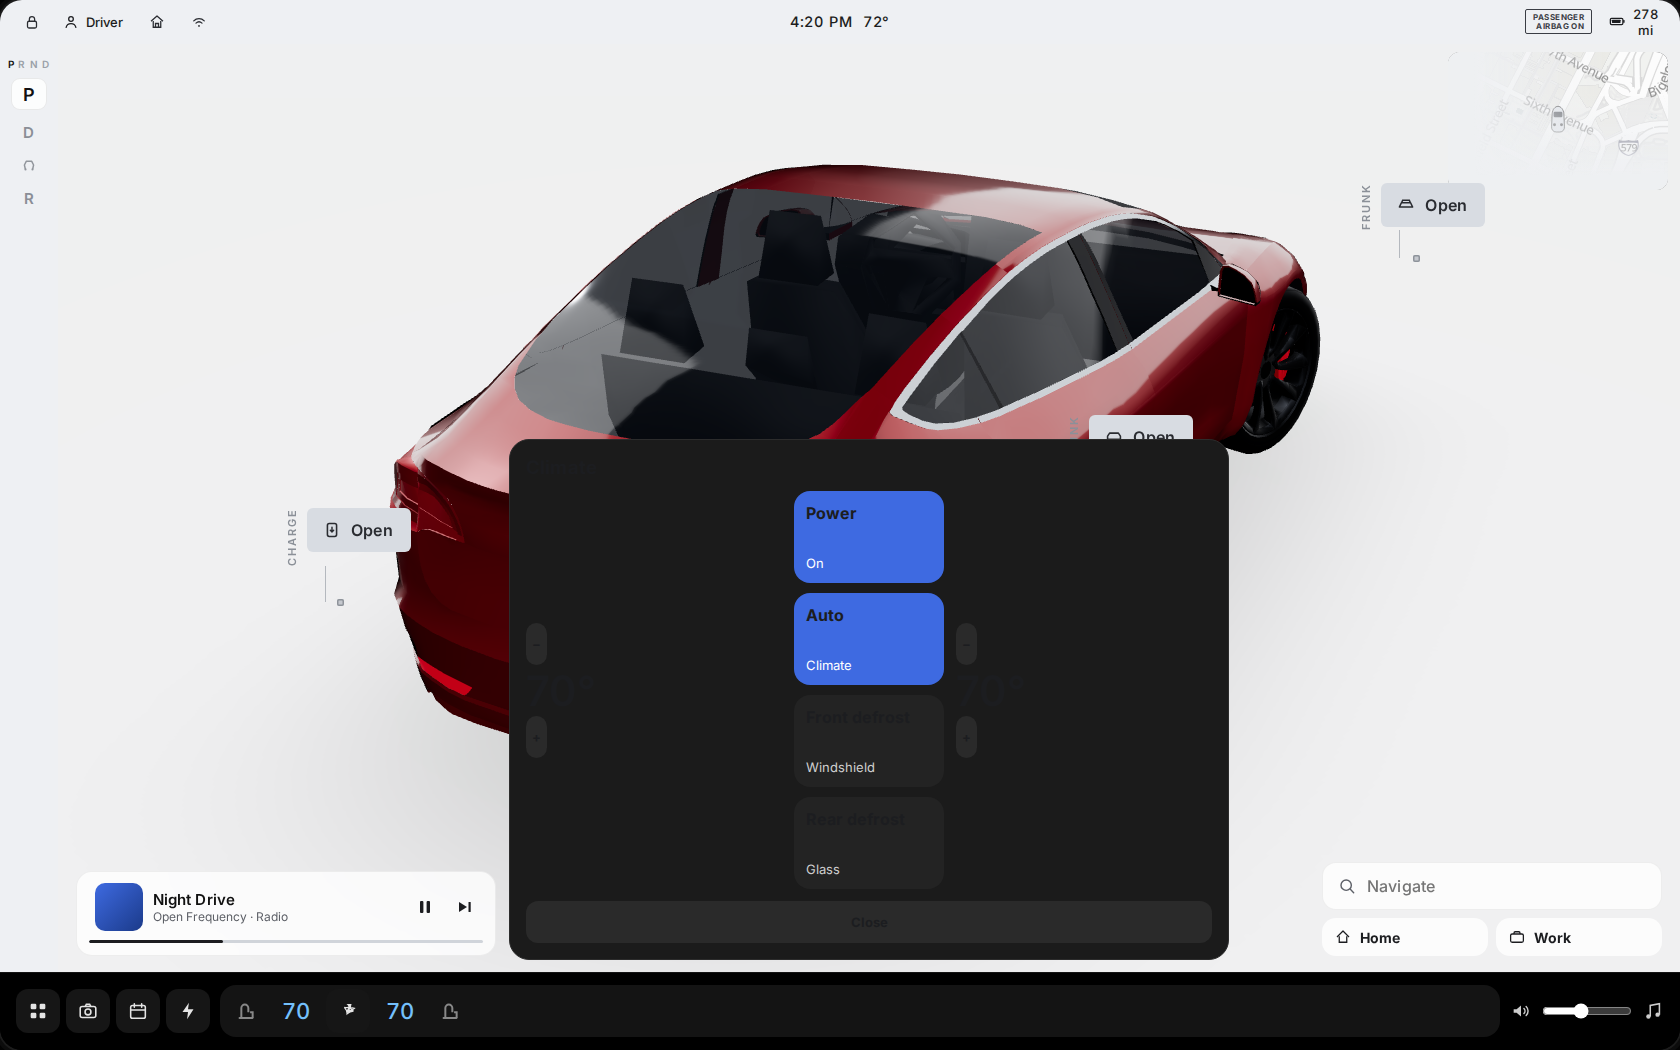
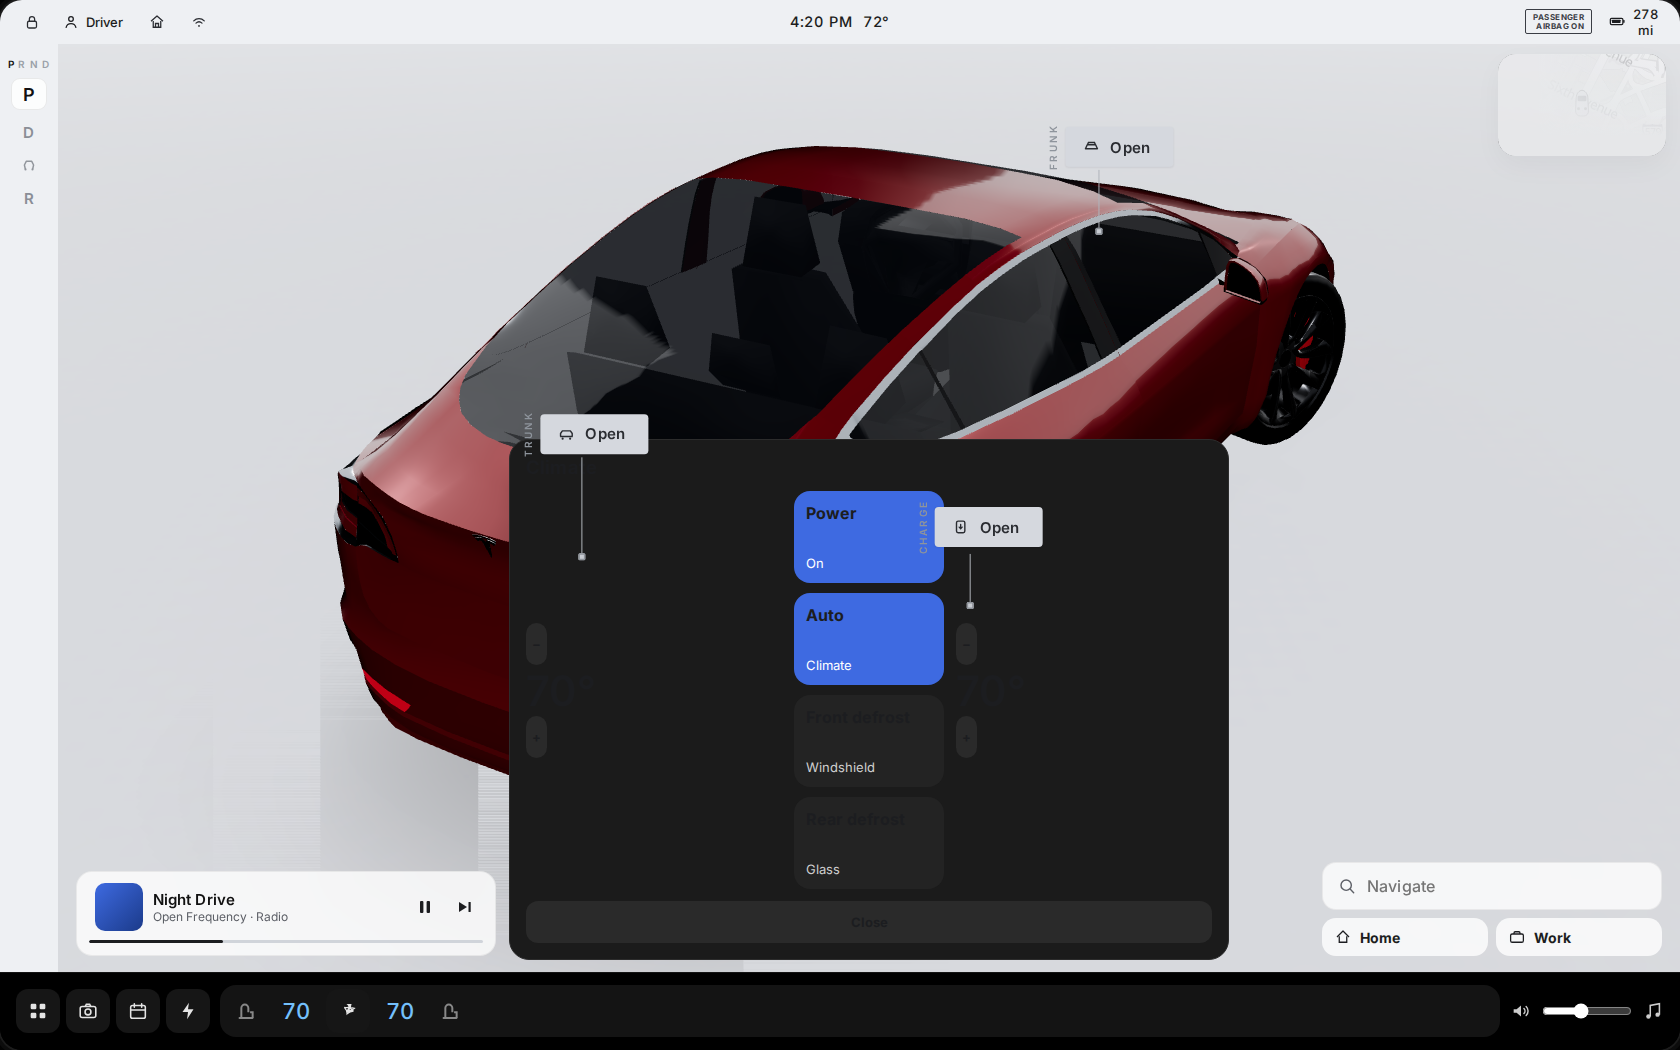
Rebaseline parked stills with decklid TRUNK pin
Parked-home now shows the Open-card leader on the liftgate center, a
calmer studio floor, and the snippet map chip. QA screenshots regenerated.

diff --git a/src/viz/hotspots.ts b/src/viz/hotspots.ts
@@ -17,7 +17,7 @@ export type HotspotPin = {
 export const HOTSPOT_PINS: readonly HotspotPin[] = [
   { id: "frunk", kicker: "FRUNK", position: [0, 0.78, 1.52], hit: [1.48, 0.18, 0.88] },
   { id: "trunk", kicker: "TRUNK", position: [0, 0.82, -1.92], hit: [1.22, 0.14, 0.52] },
-  { id: "charge", kicker: "CHARGE", position: [-0.93, 0.68, -1.4], hit: [0.16, 0.26, 0.28] },
+  { id: "charge", kicker: "CHARGE", position: [-0.93, 0.7, -1.58], hit: [0.16, 0.26, 0.28] },
 ];
 
 export function hotspotPin(id: HotspotId): HotspotPin {

diff --git a/src/viz/FsdCanvas.tsx b/src/viz/FsdCanvas.tsx
@@ -71,8 +71,8 @@ function ParkedStudio() {
           map={floorMap}
           color="#e7e9ee"
           roughness={0.78}
-          metalness={0.14}
-          envMapIntensity={0.42}
+          metalness={0.05}
+          envMapIntensity={0.22}
         />
       </mesh>
       <group rotation={gear === "R" ? [0, Math.PI, 0] : [0, 0.24, 0]} position={[0.12, 0, 0.14]}>

diff --git a/src/styles/app.css b/src/styles/app.css
@@ -1363,17 +1363,17 @@ button {
 }
 
 .parked-callout.trunk {
-  --stem-h: 96px;
-  --pin-x: 58px;
+  --stem-h: 72px;
+  --pin-x: 118px;
 }
 
 .parked-callout.frunk {
-  --stem-h: 58px;
+  --stem-h: 52px;
   --pin-x: 50px;
 }
 
 .parked-callout.charge {
-  --stem-h: 48px;
+  --stem-h: 40px;
   --pin-x: 52px;
 }
 

diff --git a/docs/qa/CHECKLIST.md b/docs/qa/CHECKLIST.md
@@ -19,7 +19,7 @@ Baseline captured from this harness on 2026-09-16 (`docs/qa/screenshots/*.png`).
 
 | Scene | Latest still | vs reference | Status | Notes (update me) |
 | --- | --- | --- | --- | --- |
-| Parked home | `screenshots/parked-home.png` | `manual-m3-touchscreen-p8.jpg`, `nata-parked-car-vis.jpg` | PARTIAL | Tighter nata rear-3/4: car fills the stage, 3D-projected Open cards (TRUNK leader on decklid center, FRUNK on hood, CHARGE on port), compact Auto Shift, Park status-bar, snippet map chip (`parked-home.png` 2026-09-16 polish). Remaining: 27k David_Holiday mesh is the ceiling (737k CC-BY sibling exists on Sketchfab but download is 401 without a token; no public mirror). Not Tesla viz-grade. |
+| Parked home | `screenshots/parked-home.png` | `manual-m3-touchscreen-p8.jpg`, `nata-parked-car-vis.jpg` | PARTIAL | Tighter nata rear-3/4: Ultra Red fills the stage, TRUNK leader on decklid center (not quarter), FRUNK on hood, CHARGE on port, compact Auto Shift, Park status-bar, snippet map chip (`parked-home.png` 2026-09-16). Remaining: 27k David_Holiday mesh is the ceiling (737k CC-BY sibling exists on Sketchfab but download is 401 without a token; no public mirror). Not Tesla viz-grade. |
 | Route set | `screenshots/route-set.png` | `manual-m3-maps-nav-p170.jpg`, `nata-trip-progress.jpg` | PARTIAL | Turn list + Start FSD sit on the parked fullscreen (map snippet TR). No traffic progress bar, no gray traveled path, no energy-to-destination. |
 | FSD engaged | `screenshots/fsd-engaged.png` | `manual-m3-driving-status-p16.jpg`, `nata-ui-v12-hero.jpg` | FAIL | CC Model 3 now sits on the ribbon (this PR) but does not prove it is on the same road the map drives. Cheap traffic/lanes. Media player is in the dock, not on the viz. |
 | Controls open | `screenshots/controls.png` | `nata-quick-controls.jpg`, `nata-controls-search.jpg` | FAIL | Sheet covers the whole stage. Missing top Search, wrong categories (no Dynamics/Charging/Trips), tile layout ≠ Quick Controls. |
